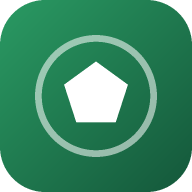
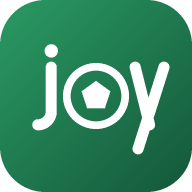
v0.5.7: 앱 이름 "웃을산 FC" → "축구&joy"
표기 변경 (APP_NAME 상수 하나로 모음)
- manifest name/short_name, <title>, apple-mobile-web-app-title, 헤더 로고
- 설정 하단 "축구&joy · v0.5.7", 전술판 푸터
- 공유 PNG 푸터("축구&joy 앱 v0.5.7")와 파일명(축구joy_날짜_팀.png / _전술.png)
- 백업 공유 제목, 붙여넣기 placeholder, AI 프롬프트 자기소개(APP_SELF)
- exportJSON 의 app 필드 = "축구&joy" (importJSON 은 app 필드를 보지 않아 옛 백업도 그대로 들어옴)
- 아이콘 192/512/maskable 재생성: 축구공이 joy 의 o 가 되는 "j⚽y" 워드마크

바꾸지 않은 것 (주소·저장 위치라서)
- localStorage 키 woosulsan-fc:*, 저장소/URL, sw 캐시 접두 woosulsan-fc-

클럽 이름과 앱 이름 분리
- 공유 이미지·전술판 이미지의 머리글은 club.name(기본 "웃을산 FC")으로 바꿔 앱 이름과 분리
- club.name 은 지금까지 편집 화면이 없고 읽기 접근자도 없었다 → club.name()/setName() 추가하고
  팀 설정 맨 위에 "클럽 이름" 칸 신설 (지시의 "설정에서 편집 가능 유지"를 실제로 성립시킴)
- iOS 홈 화면 아이콘 이름은 추가 시점에 굳으므로 "이 앱이 열린 곳"에 안내 한 줄 추가

검증: node 308 PASS / 0 FAIL, 브라우저 e2e 30 PASS, 콘솔 오류 0,
렌더 문자열에 "웃을산 FC 앱" 0건(클럽명 표시는 유지). 전 모듈 v0.5.7.

Changed region(s): [[0.1562, 0.1562, 0.9062, 0.8438]]

diff --git a/app.js b/app.js
@@ -1,4 +1,4 @@
-/* 웃을산 FC — 앱 본체 */
+/* 축구&joy — 앱 본체 (저장소·URL·localStorage 키는 woosulsan-fc 그대로) */
 import { createStore, LocalStorageAdapter, TEAM_KEYS, ageOf, ageLabel, parseBirthYear,
   ABILITIES, abilAvg, GENDERS, parseGender, parseMemberLine, splitNamePosition, analyzeMemberName,
   effectiveSkill, isUnrated, DEFAULT_TEAM_ALIASES, MODULE_VERSION as STORE_VERSION } from './store.js';
@@ -9,7 +9,9 @@ import { saveDraft, readDraft, clearDraft, hasAnyDraft, debounce, draftAgeLabel 
 import { balanceTeams, groupStat, suggestMerges, suggestGroupCount, teamShortage } from './balance.js';
 import * as AI from './ai.js';
 
-export const APP_VERSION = 'v0.5.6';
+export const APP_VERSION = 'v0.5.7';
+/** 앱 이름 (2026-09-22 사장님 지시). 클럽 이름(store.club.name)과는 다른 값이다. */
+export const APP_NAME = '축구&joy';
 /** 고정 소속 팀 A~D 색 */
 const TEAM_COLORS = ['#1f7a4d', '#2f5fa8', '#b4552a', '#6b4ea8'];
 export { TEAM_KEYS };
@@ -482,6 +484,8 @@ function envCard() {
         : env.mode === 'inapp'
           ? `${esc(env.appLabel)} 안의 브라우저는 <b>별도 저장소</b>를 씁니다. 여기서 넣은 명단은 사파리·크롬·홈 화면 앱에서 보이지 않습니다.`
           : '브라우저 탭입니다. 홈 화면에 추가한 앱과는 저장이 분리되니 한 곳만 정해 쓰세요.'}</div>
+      <div class="ec-note">홈 화면 아이콘 이름은 추가할 때 정해져서, 이미 추가해 둔 아이콘은 전 이름 그대로입니다.
+        바꾸려면 아이콘을 지우고 <b>다시 추가</b>하세요(명단은 그대로 남습니다).</div>
       <button class="btn block" id="btn-move-data" style="margin-top:10px">다른 곳으로 옮기기</button>
     </div>`;
 }
@@ -514,8 +518,8 @@ function moveDataSheet() {
       if (act === 'share') {
         const file = new File([json], `woosulsan-fc_${todayStr()}.json`, { type: 'application/json' });
         try {
-          if (navigator.canShare?.({ files: [file] })) { await navigator.share({ files: [file], title: '웃을산 FC 백업' }); markBackup(); toast('공유했습니다'); }
-          else if (navigator.share) { await navigator.share({ title: '웃을산 FC 백업', text: json.slice(0, 100000) }); markBackup(); }
+          if (navigator.canShare?.({ files: [file] })) { await navigator.share({ files: [file], title: `${APP_NAME} 백업` }); markBackup(); toast('공유했습니다'); }
+          else if (navigator.share) { await navigator.share({ title: `${APP_NAME} 백업`, text: json.slice(0, 100000) }); markBackup(); }
           else { exportJSON(); }
         } catch (err) { if (err?.name !== 'AbortError') exportJSON(); }
       }
@@ -530,7 +534,7 @@ function pasteImportSheet() {
     <div style="font-size:13px;color:var(--text-2);line-height:1.6;margin-bottom:10px">
       다른 곳에서 "클립보드 복사"한 내용을 그대로 붙여넣으세요. 파일이 있으면 아래 "파일 고르기"를 쓰면 됩니다.
     </div>
-    <textarea id="f-paste" rows="7" placeholder='{"app":"웃을산 FC", ...}'></textarea>
+    <textarea id="f-paste" rows="7" placeholder='{"app":"축구&amp;joy", ...}'></textarea>
     <div class="row" style="margin-top:8px">
       <button class="btn grow" data-act="file">파일 고르기</button>
       <button class="btn grow primary" data-act="go">가져오기</button>
@@ -1011,6 +1015,8 @@ function adoptSuggestion(idx) {
 function teamNameModal() {
   openModal(`
     <h3>팀 설정</h3>
+    <div class="field"><label>클럽 이름 <span class="labelhint">공유 이미지 위에 찍히는 우리 모임 이름 (앱 이름과는 별개)</span></label>
+      <input type="text" id="f-clubname" value="${esc(store.club.name())}" maxlength="20" placeholder="웃을산 FC"></div>
     <div style="font-size:13px;color:var(--text-2);line-height:1.6;margin-bottom:10px">
       고정 소속 팀 4개입니다. <b>약자</b>는 일괄 추가에서 줄 맨 앞에 쓰는 1~2글자예요 — 예: <code>체 진혜린 95 여 포워드</code>.
     </div>
@@ -1048,6 +1054,8 @@ function teamNameModal() {
       const act = e.target.closest('[data-act]')?.dataset.act;
       if (!act) return;
       if (act === 'cancel') return closeModal();
+      const cn = $('#f-clubname', m);
+      if (cn) store.club.setName(cn.value);
       $$('[data-tn]', m).forEach((inp) => store.club.setTeamName(inp.dataset.tn, inp.value));
       $$('[data-mixed]', m).forEach((b) => store.club.setMixed(b.dataset.mixed, b.getAttribute('aria-pressed') === 'true'));
       $$('[data-coach]', m).forEach((sel) => store.club.setCoach(sel.dataset.coach, sel.value || null));
@@ -1334,7 +1342,7 @@ function renderMembers() {
       <button class="btn danger block" id="btn-reset" style="margin-top:12px">전체 데이터 초기화</button>
     </div>
     ${aiSettingsCard()}
-    <div class="footer-note">웃을산 FC · ${APP_VERSION} · <span id="sw-state">로컬 저장</span></div>`;
+    <div class="footer-note">${esc(APP_NAME)} · ${APP_VERSION} · <span id="sw-state">로컬 저장</span></div>`;
 
   root.innerHTML = html;
 }
@@ -1350,7 +1358,7 @@ function switchTab(tab, { push = true } = {}) {
   else if (tab === 'members') renderMembers();
   $$('.view').forEach((v) => v.classList.toggle('active', v.id === `view-${tab}`));
   $$('.tabbar button').forEach((b) => b.setAttribute('aria-selected', String(b.dataset.tab === tab)));
-  $('#topbar-title').textContent = { home: '웃을산 FC', attend: '출석 체크', team: '팀 나누기', tactics: '전술판', members: '회원 관리' }[tab];
+  $('#topbar-title').textContent = { home: APP_NAME, attend: '출석 체크', team: '팀 나누기', tactics: '전술판', members: '회원 관리' }[tab];
   if (push && location.hash !== `#${tab}`) location.hash = `#${tab}`;
   window.scrollTo({ top: 0 });
   document.dispatchEvent(new CustomEvent('app:tab', { detail: tab }));
@@ -1891,7 +1899,7 @@ async function exportTeamsPNG() {
   roundRect(x, 40, 40, W - 80, 130, 26); x.fill();
   x.fillStyle = '#fff';
   x.font = '900 44px -apple-system, Malgun Gothic, sans-serif';
-  x.fillText('웃을산 FC', 76, 100);
+  x.fillText(store.club.name(), 76, 100);   // 머리글 = 클럽 이름 (꼬리말이 앱 이름)
   x.font = '700 28px -apple-system, Malgun Gothic, sans-serif';
   x.fillStyle = 'rgba(255,255,255,.88)';
   x.fillText(`${fmtDate(g.date)} ${g.time || ''}${g.place ? ' · ' + g.place : ''}`, 76, 142);
@@ -1929,10 +1937,10 @@ async function exportTeamsPNG() {
   });
   x.fillStyle = '#9a9183';
   x.font = '600 22px -apple-system, Malgun Gothic, sans-serif';
-  x.fillText(`웃을산 FC 앱 ${APP_VERSION}`, 44, H - 26);
+  x.fillText(`${APP_NAME} 앱 ${APP_VERSION}`, 44, H - 26);
 
   const blob = await new Promise((r) => c.toBlob(r, 'image/png'));
-  const file = new File([blob], `웃을산FC_${g.date}_팀.png`, { type: 'image/png' });
+  const file = new File([blob], `축구joy_${g.date}_팀.png`, { type: 'image/png' });
   await shareOrDownload(file, blob);
 }
 
@@ -2384,7 +2392,7 @@ async function main() {
   // 전술 모듈(2단계)
   import('./tactics.js')
     .then((mod) => mod.initTactics({ store, ui, switchTab, toast, esc, openModal, closeModal, confirmDialog,
-      shareOrDownload, fmtDate, TEAM_KEYS, TEAM_COLORS, APP_VERSION, groupLabel, groupColor, currentPlan,
+      shareOrDownload, fmtDate, TEAM_KEYS, TEAM_COLORS, APP_VERSION, APP_NAME, groupLabel, groupColor, currentPlan,
       labelOf, AI, aiRun, aiSkeleton, aiCostLine, aiKeyNotice }))
     .catch((e) => {
       console.warn('[tactics] 준비 중', e);
@@ -2400,5 +2408,5 @@ window.__fc = { store, ui, render, balanceTeams, suggestMerges, switchTab, adopt
   parseMemberLine, splitNamePosition, analyzeMemberName, nameCandidates, aliasLeftovers, nameFixSheet,
   effectiveSkill, isUnrated,
   rosterModal, parseRoster, matchNames, womenLock,
-  APP_VERSION, TEAM_KEYS, AI, aiTeamCoach, applyAIPlan, aiNoticeModal, aiAskModal, aiState };
+  APP_VERSION, APP_NAME, TEAM_KEYS, exportTeamsPNG, AI, aiTeamCoach, applyAIPlan, aiNoticeModal, aiAskModal, aiState };
 main();

diff --git a/ai.js b/ai.js
@@ -1,4 +1,4 @@
-/* 웃을산 FC — AI 모듈 (Anthropic Messages API 브라우저 직접 호출)
+/* 축구&joy — AI 모듈 (Anthropic Messages API 브라우저 직접 호출)
  *
  * 근거 (claude-api 스킬 / SDK 소스 확인, 2026-09-22):
  *  - 엔드포인트: POST https://api.anthropic.com/v1/messages
@@ -206,6 +206,7 @@ export async function askJSON(opts) {
 }
 
 /* ---------------- 앱 데이터 → 컨텍스트 요약 ---------------- */
+const APP_SELF = "당신은 축구 모임 관리 앱 '축구&joy' 안에서 동작합니다. ";
 const GUARD = '제공된 데이터에 없는 사실(이름·기록·결과·부상 등)은 절대 지어내지 마세요. 모르면 모른다고 쓰세요.';
 
 /** 간단 체크 6항목 중 입력된 것만 (스피드/지구력/기본기/슈팅/수비/피지컬, 각 1~5) */
@@ -287,7 +288,7 @@ export function teamCoachPrompt({ store, matchId, candidates, groupCount }) {
     })),
   };
   return {
-    system: `당신은 한국 동호회 축구 모임의 팀 편성 코치입니다. 실력(1~5)·포지션·GK 유무·인원을 고려해 오늘 경기의 팀을 추천합니다. ${GUARD}
+    system: `${APP_SELF}당신은 한국 동호회 축구 모임의 팀 편성 코치입니다. 실력(1~5)·포지션·GK 유무·인원을 고려해 오늘 경기의 팀을 추천합니다. ${GUARD}
 반드시 아래 JSON 하나만 출력하세요. 설명 문장은 JSON 안에만 넣습니다.
 {"teams":[{"name":"팀 이름","members":["이름",...]}],"reasons":["이유 3줄"],"cautions":["주의점"]}
 - members 에는 제공된 참석자 이름만, 한 사람은 한 팀에만 넣습니다. 전원을 배정하세요.
@@ -310,7 +311,7 @@ export function tacticsPrompt({ players, teamLabel, formations, note }) {
     사용자메모: note || '',
   };
   return {
-    system: `당신은 한국 동호회 축구 팀의 전술 코치입니다. ${GUARD}
+    system: `${APP_SELF}당신은 한국 동호회 축구 팀의 전술 코치입니다. ${GUARD}
 반드시 아래 JSON 하나만 출력하세요.
 {"formation":"선택가능_포메이션 중 하나","pins":[{"name":"선수 이름","x":0.5,"y":0.9,"role":"GK/CB/CM/ST 등"}],"instructions":["핵심 지시 3~5개"]}
 - 좌표는 0~1 정규화. x=0 왼쪽, x=1 오른쪽. y=0 상대 골대(공격 방향), y=1 우리 골대.
@@ -334,7 +335,7 @@ export function noticePrompt({ store, matchId, mode = 'notice', tone = '짧게' 
     : null;
   const toneGuide = { '짧게': '3~5줄로 짧고 담백하게', '유쾌하게': '친근하고 유쾌하게, 이모지 2~3개까지', '정중하게': '정중한 존댓말로 단정하게' }[tone] || '짧고 담백하게';
   return {
-    system: `당신은 축구 동호회 총무입니다. 단톡방에 그대로 붙여넣을 한국어 ${mode === 'review' ? '경기 총평' : '경기 공지문'}을 씁니다.
+    system: `${APP_SELF}당신은 축구 동호회 총무입니다. 단톡방에 그대로 붙여넣을 한국어 ${mode === 'review' ? '경기 총평' : '경기 공지문'}을 씁니다.
 ${toneGuide} 쓰세요. 제목 줄 + 본문 형식, 마크다운 표는 쓰지 마세요. ${GUARD}
 ${mode === 'review' ? '결과 데이터가 없으면 점수·득점자를 지어내지 말고 참석·팀 구성 중심으로 씁니다.' : '준비물·시간·장소는 제공된 값만 씁니다.'}
 JSON 없이 본문만 출력하세요.`,
@@ -351,7 +352,7 @@ export function askPrompt({ store, question, history = [] }) {
     참석: store.matches.attendees(g.id).map((m) => m.name),
   }));
   return {
-    system: `당신은 축구 동호회 운영을 돕는 비서입니다. 아래 모임 데이터만 근거로 한국어로 간결하게(5줄 이내) 답합니다. ${GUARD}
+    system: `${APP_SELF}당신은 축구 동호회 운영을 돕는 비서입니다. 아래 모임 데이터만 근거로 한국어로 간결하게(5줄 이내) 답합니다. ${GUARD}
 계산이 필요하면 직접 세어서 답하고, 이름을 나열할 때는 쉼표로 구분합니다.
 
 [모임 데이터]

diff --git a/tactics.js b/tactics.js
@@ -1,4 +1,4 @@
-/* 웃을산 FC — 전술판: 포메이션 프리셋 · 핀 드래그 · 그림판 · 저장 · PNG */
+/* 축구&joy — 전술판: 포메이션 프리셋 · 핀 드래그 · 그림판 · 저장 · PNG */
 
 export const PRESETS = [
   { name: '4-3-3', size: 11, rows: [4, 3, 3] },
@@ -52,7 +52,7 @@ export function layout(preset, players) {
 
 export function initTactics(ctx) {
   const { store, ui, toast, esc, confirmDialog, shareOrDownload, fmtDate, TEAM_KEYS, TEAM_COLORS,
-    APP_VERSION, groupLabel, groupColor, currentPlan, labelOf, AI, aiRun, aiCostLine } = ctx;
+    APP_VERSION, APP_NAME, groupLabel, groupColor, currentPlan, labelOf, AI, aiRun, aiCostLine } = ctx;
   const root = document.getElementById('view-tactics');
   const $ = (s, r = document) => r.querySelector(s);
   const $$ = (s, r = document) => [...r.querySelectorAll(s)];
@@ -174,7 +174,7 @@ export function initTactics(ctx) {
           <button class="btn sm danger" data-del="${s.id}">삭제</button>
         </div>`).join('')
         : `<div class="empty" style="padding:22px"><div class="big">저장된 전술이 없습니다</div><div>배치를 만들고 "전술 저장"을 누르세요.</div></div>`}
-      <div class="footer-note">웃을산 FC · ${APP_VERSION}</div>`;
+      <div class="footer-note">${esc(APP_NAME)} · ${APP_VERSION}</div>`;
 
     if (players.length >= 2 && !t.pins.length) resetLayout(false);
     bindPitch();
@@ -373,7 +373,7 @@ export function initTactics(ctx) {
     x.fillText(t.title || `${t.formation} 전술`, 24, 44);
     x.fillStyle = '#6b6255';
     x.font = '700 20px -apple-system, Malgun Gothic, sans-serif';
-    x.fillText(`웃을산 FC · ${fmtDate(g.date)} · ${t.teamLabel || '전체 참석자'} · ${t.formation}`, 24, 76);
+    x.fillText(`${store.club.name()} · ${fmtDate(g.date)} · ${t.teamLabel || '전체 참석자'} · ${t.formation}`, 24, 76);
 
     const oy = HEAD;
     // 잔디
@@ -428,10 +428,10 @@ export function initTactics(ctx) {
       x.textAlign = 'left';
     });
     x.fillStyle = '#9a9183'; x.font = '600 16px -apple-system, Malgun Gothic, sans-serif';
-    x.fillText(`웃을산 FC 앱 ${APP_VERSION}`, 24, c.height - 14);
+    x.fillText(`${APP_NAME} 앱 ${APP_VERSION}`, 24, c.height - 14);
 
     const blob = await new Promise((r) => c.toBlob(r, 'image/png'));
-    await shareOrDownload(new File([blob], `웃을산FC_${g.date}_전술.png`, { type: 'image/png' }), blob);
+    await shareOrDownload(new File([blob], `축구joy_${g.date}_전술.png`, { type: 'image/png' }), blob);
   }
 
   /* ---------- AI 전술 추천 ---------- */

diff --git a/store.js b/store.js
@@ -1,11 +1,11 @@
-/* 웃을산 FC — 저장 계층 어댑터
+/* 축구&joy — 저장 계층 어댑터
  * 지금: localStorage 어댑터 1개.
  * 나중: 같은 인터페이스로 FirestoreAdapter 를 끼우면 앱 코드는 그대로.
  * 모든 메서드는 async — 원격 저장소로 바꿔도 호출부가 안 바뀌게.
  */
 
 /** 버전 스탬프 — app.js 와 다르면 캐시가 섞인 것이므로 앱이 스스로 복구한다 */
-export const MODULE_VERSION = 'v0.5.6';
+export const MODULE_VERSION = 'v0.5.7';
 
 export const SCHEMA_VERSION = 2;
 
@@ -685,6 +685,13 @@ export function createStore(adapter = new LocalStorageAdapter()) {
     /* 클럽 설정 (팀 이름) */
     club: {
       get() { return state.club; },
+      /** 클럽 이름 (앱 이름 APP_NAME 과는 다른 값) */
+      name() { return state.club.name || '웃을산 FC'; },
+      setName(v) {
+        const clean = String(v ?? '').trim().slice(0, 20);
+        state.club.name = clean || '웃을산 FC';
+        touch();
+      },
       teamName(key) { return state.club.teamNames?.[key] || DEFAULT_TEAM_NAMES[key] || key; },
       /** 팀 약자 (일괄 추가에서 줄 맨 앞에 쓰는 1~2글자) */
       teamAlias(key) { return state.club.teamAliases?.[key] || DEFAULT_TEAM_ALIASES[key] || key; },
@@ -743,7 +750,8 @@ export function createStore(adapter = new LocalStorageAdapter()) {
 
     /* 백업 / 이관 */
     exportJSON() {
-      return JSON.stringify({ app: '웃을산 FC', exportedAt: new Date().toISOString(), data: state }, null, 2);
+      // app 필드는 표기용일 뿐이다 — importJSON 은 이 값을 보지 않으므로 옛 "웃을산 FC" 백업도 그대로 들어온다
+      return JSON.stringify({ app: '축구&joy', exportedAt: new Date().toISOString(), data: state }, null, 2);
     },
     async importJSON(text, { merge = false } = {}) {
       let parsed;

diff --git a/index.html b/index.html
@@ -3,13 +3,13 @@
 <head>
 <meta charset="utf-8">
 <meta name="viewport" content="width=device-width, initial-scale=1, viewport-fit=cover, maximum-scale=1">
-<title>웃을산 FC</title>
-<meta name="description" content="웃을산 FC 모임 관리 — 회원·출석·팀 나누기·전술판">
+<title>축구&amp;joy</title>
+<meta name="description" content="축구&amp;joy — 축구 모임 관리 · 회원·출석·팀 나누기·전술판">
 <meta name="theme-color" content="#1f7a4d" media="(prefers-color-scheme: light)">
 <meta name="theme-color" content="#14120f" media="(prefers-color-scheme: dark)">
 <meta name="mobile-web-app-capable" content="yes">
 <meta name="apple-mobile-web-app-capable" content="yes">
-<meta name="apple-mobile-web-app-title" content="웃을산 FC">
+<meta name="apple-mobile-web-app-title" content="축구&amp;joy">
 <meta name="apple-mobile-web-app-status-bar-style" content="default">
 <meta name="color-scheme" content="light dark">
 <link rel="manifest" href="./manifest.webmanifest">
@@ -21,7 +21,7 @@
 <div class="app">
   <header class="topbar">
     <span id="brand-logo" class="brand"></span>
-    <h1 id="topbar-title">웃을산 FC</h1>
+    <h1 id="topbar-title">축구&amp;joy</h1>
     <span class="spacer"></span>
     <span class="sub" id="topbar-sub"></span>
   </header>

diff --git a/drafts.js b/drafts.js
@@ -1,4 +1,4 @@
-/* 웃을산 FC — 입력 초안 보존 (v0.5.3)
+/* 축구&joy — 입력 초안 보존 (v0.5.3)
  *
  * 사고 배경(2026-09-22): 새 버전 서비스워커가 준비되면 앱이 곧바로 location.reload() 를 했다.
  * 일괄 추가 시트에 명단을 입력하던 중에 새로고침이 걸리면 저장 전 입력이 통째로 사라진다.
@@ -8,7 +8,7 @@
  */
 
 /** 버전 스탬프 — app.js 와 다르면 캐시가 섞인 것이므로 앱이 스스로 복구한다 */
-export const MODULE_VERSION = 'v0.5.6';
+export const MODULE_VERSION = 'v0.5.7';
 
 export const DRAFT_PREFIX = 'woosulsan-fc:draft:';
 export const DRAFT_TTL_MS = 3 * 24 * 60 * 60 * 1000;   // 3일 지난 초안은 버린다

diff --git a/roster.js b/roster.js
@@ -1,9 +1,9 @@
-/* 웃을산 FC — 참석 명단 붙여넣기 파서 (순수 함수, AI 없이 로컬 처리)
+/* 축구&joy — 참석 명단 붙여넣기 파서 (순수 함수, AI 없이 로컬 처리)
  * 카톡 투표 결과·댓글·메모 등 흔한 형식을 이름 토큰으로 정리하고 회원 명단과 매칭한다.
  */
 
 /** 버전 스탬프 — app.js 와 다르면 캐시가 섞인 것이므로 앱이 스스로 복구한다 */
-export const MODULE_VERSION = 'v0.5.6';
+export const MODULE_VERSION = 'v0.5.7';
 
 const SECTION_IN = /(참석|참가|참여|가능|오케이|ok|출석|^o$|^⭕|^✅)/i;
 const SECTION_OUT = /(불참|못\s*감|못감|안\s*됨|불가|취소|^x$|^❌)/i;

diff --git a/env.js b/env.js
@@ -1,4 +1,4 @@
-/* 웃을산 FC — 실행 환경 감지 (데이터가 "어디에" 저장되는지 알려주기 위한 모듈)
+/* 축구&joy — 실행 환경 감지 (데이터가 "어디에" 저장되는지 알려주기 위한 모듈)
  *
  * 배경: localStorage 는 "브라우저 + 출처" 단위로 나뉜다. 그래서 같은 주소라도
  *   · 카톡 인앱 브라우저에서 연 앱
@@ -8,7 +8,7 @@
  */
 
 /** 버전 스탬프 — app.js 와 다르면 캐시가 섞인 것이므로 앱이 스스로 복구한다 */
-export const MODULE_VERSION = 'v0.5.6';
+export const MODULE_VERSION = 'v0.5.7';
 
 export const META_KEY = 'woosulsan-fc:meta';   // { lastBackupAt, bannerHiddenUntil }
 

diff --git a/sw.js b/sw.js
@@ -1,8 +1,8 @@
-/* 웃을산 FC 서비스워커
+/* 축구&joy 서비스워커 (캐시 접두 woosulsan-fc- 는 그대로 — URL/저장소 이름이라 바꾸지 않는다)
  * 원칙: network-first + 버전 스탬프 캐시명.
  * (cache-first + 고정 캐시명 = "옛 화면 고착" 사고 전례 → 금지)
  */
-const VERSION = 'v0.5.6';
+const VERSION = 'v0.5.7';
 const CACHE = `woosulsan-fc-${VERSION}`;
 const PRECACHE = [
   './', './index.html', './styles.css', './app.js', './store.js', './balance.js',

diff --git a/balance.js b/balance.js
@@ -1,4 +1,4 @@
-/* 웃을산 FC — 팀 자동 밸런스 (순수 함수, 테스트 가능)
+/* 축구&joy — 팀 자동 밸런스 (순수 함수, 테스트 가능)
  * 규칙
  *  1) GK는 팀당 1명 우선 분산 (GK 수가 팀 수보다 적으면 있는 만큼만)
  *  2) 인원 균등 (팀 간 인원 차 ≤ 1)

diff --git a/styles.css b/styles.css
@@ -1,4 +1,4 @@
-/* 웃을산 FC — 디자인 토큰 & 레이아웃
+/* 축구&joy — 디자인 토큰 & 레이아웃
    따뜻한 오프화이트 바탕 + 악센트 1색(피치 그린) */
 
 :root {

diff --git a/dev/DATA_MODEL.md b/dev/DATA_MODEL.md
@@ -1,4 +1,10 @@
-# 웃을산 FC 데이터 모델 (schema 2, v0.5.6)
+# 축구&joy 데이터 모델 (schema 2, v0.5.7)
+
+> **앱 이름 vs 클럽 이름** (v0.5.7, 2026-09-22 사장님)
+> - `APP_NAME = '축구&joy'` (app.js) — 앱 자체의 이름. 제목표시줄·헤더·manifest·설정 하단·공유 이미지 푸터·파일명·AI 프롬프트·`exportJSON().app`.
+> - `club.name` (기본값 "웃을산 FC") — **모임 이름**. 팀 설정에서 편집하고, 공유 이미지·전술판 이미지의 머리글에 찍힌다(`store.club.name()` / `setName()`).
+> - **바뀜 수 없는 것**: localStorage 키(`woosulsan-fc:*`), 저장소·URL, sw 캐시 접두 `woosulsan-fc-`. 이름이 아니라 **주소**라서 바꾸면 기존 데이터가 끊긴다.
+> - `importJSON` 은 `app` 필드를 보지 않는다 → 옛 "웃을산 FC" 백업 파일도 그대로 들어온다.
 
 저장은 `store.js` 어댑터 한 곳을 통해서만 이루어진다. 지금은 `LocalStorageAdapter`(키 `woosulsan-fc:v1`),
 나중에 같은 인터페이스(`load()` / `save(state)` / `clear()`)를 가진 `FirestoreAdapter` 로 갈아끼우면 화면 코드는 그대로다.
